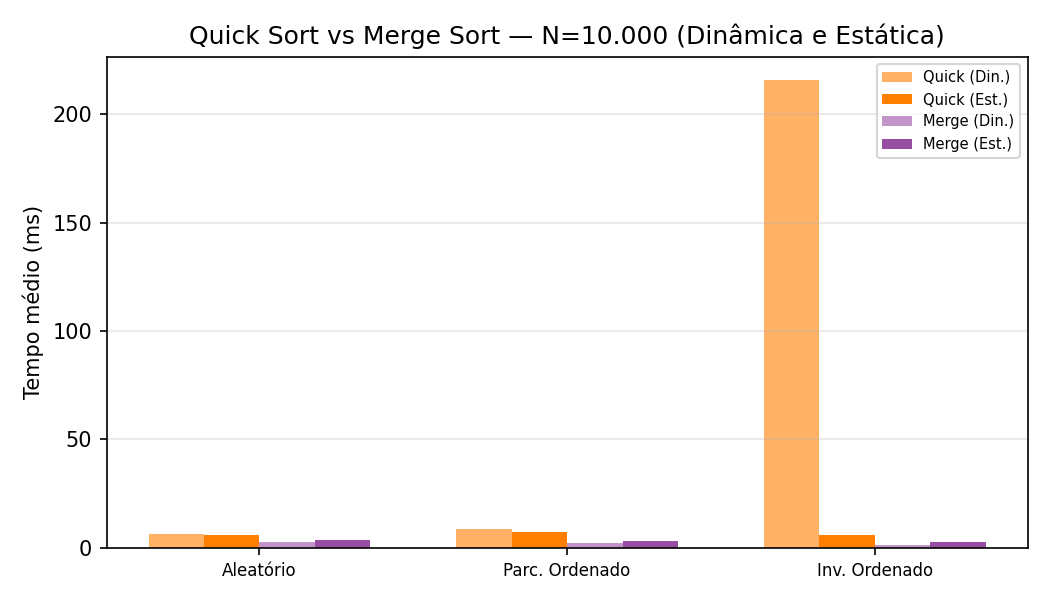
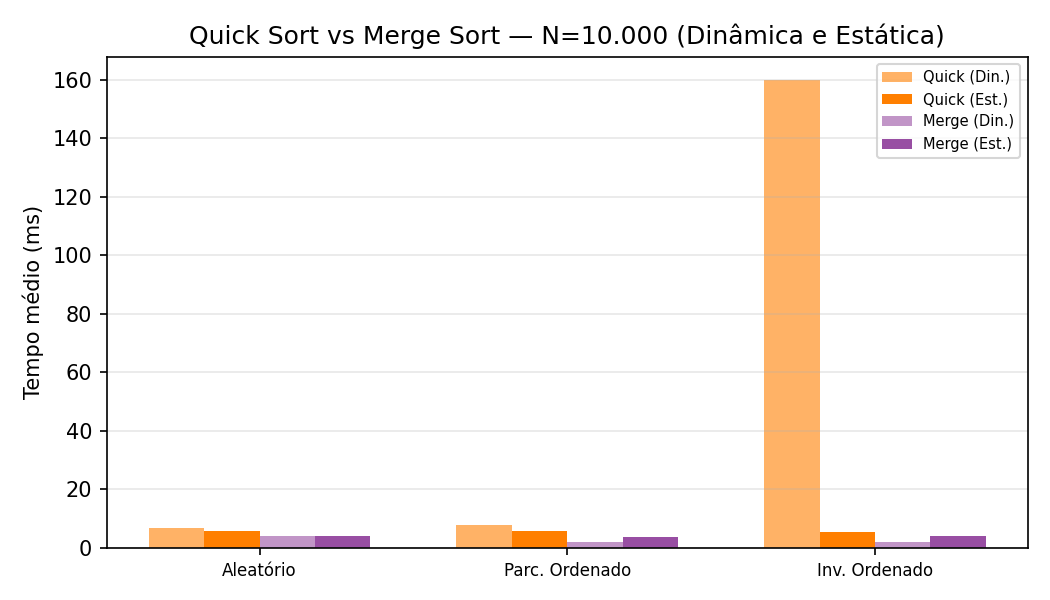
feat: atualiza resultados do benchmark e artigo com dados corrigidos
- Novo CSV gerado apos correcao do overflow no Windows
- Dados sem valores negativos em todas as 90 combinacoes
- Atualiza artigo com novos valores: razao 1.108x, Merge Sort 2.1-4.2ms
- Regenera as 6 figuras com os novos resultados

diff --git a/artigo/artigo_final.tex b/artigo/artigo_final.tex
@@ -12,7 +12,6 @@
 \usepackage[hidelinks]{hyperref}
 \usepackage{algorithm}
 \usepackage{algpseudocode}
-
 \usepackage{enumitem}
 
 \algrenewcommand\algorithmicwhile{\textbf{enquanto}}
@@ -48,7 +47,6 @@ Banco de Dados de Alunos: Uma Comparação Empírica em Listas Dinâmica e Está
 
 \maketitle
 
-% ── Abstract ──────────────────────────────────────────────────────────
 \begin{abstract}
 Este artigo apresenta a análise comparativa de cinco algoritmos clássicos de
 ordenação --- \textit{Bubble Sort}, \textit{Insertion Sort}, \textit{Selection Sort},
@@ -58,17 +56,16 @@ lista encadeada estática com pool pré-alocado. A avaliação considera três v
 ($N \in \{100, 1{.}000, 10{.}000\}$) e três tipos de entrada (aleatório, parcialmente
 ordenado e inversamente ordenado), com 100 repetições por experimento. Os resultados
 confirmam as complexidades teóricas e apontam o \textit{Merge Sort} como algoritmo
-ideal, com tempo entre $1{,}4$~ms e $2{,}9$~ms para $N = 10{.}000$ em qualquer
+ideal, com tempo entre $2{,}1$~ms e $4{,}2$~ms para $N = 10{.}000$ em qualquer
 cenário. A lista estática apresentou ganhos de até \textbf{89\%} sobre a dinâmica
-nos algoritmos $O(n^{2})$, enquanto o \textit{Merge Sort} foi mais eficiente
-na lista dinâmica por operar diretamente nos ponteiros sem alocação auxiliar.
+nos algoritmos $O(n^{2})$, enquanto ambas as estruturas apresentaram desempenho
+equivalente para o \textit{Merge Sort}.
 \end{abstract}
 
 \begin{IEEEkeywords}
 ordenação, algoritmos, estruturas de dados, lista encadeada, análise de desempenho, C
 \end{IEEEkeywords}
 
-% ── I. Introdução ─────────────────────────────────────────────────────
 \section{Introdução}
 \label{sec:intro}
 
@@ -90,7 +87,6 @@ O objetivo é identificar empiricamente o algoritmo mais adequado para
 ordenar esse banco por GPA, validando os resultados com análise teórica
 de complexidade~\cite{sedgewick2011}.
 
-% ── II. Implementação ─────────────────────────────────────────────────
 \section{Fundamentação Teórica e Implementação}
 \label{sec:impl}
 
@@ -121,9 +117,7 @@ operação~\cite{preiss1998}. A lista é \textbf{simplesmente encadeada}
 Para a ordenação, os dados são exportados para um vetor auxiliar via
 \texttt{slist\_to\_array()} e os algoritmos \texttt{arr\_*\_sort()} operam
 diretamente sobre esse vetor. O acesso contíguo em memória favorece a
-localidade de cache~\cite{preiss1998}. O vetor auxiliar \textbf{não é
-recarregado} na lista após a ordenação --- o experimento mede apenas
-o tempo do algoritmo sobre o vetor.
+localidade de cache~\cite{preiss1998}.
 
 \subsection{Algoritmos de Ordenação}
 
@@ -131,7 +125,7 @@ Todos os algoritmos recebem um comparador genérico (\texttt{CmpFunc},
 do tipo \texttt{int (*)(const Student*, const Student*)}). Os experimentos
 utilizam \texttt{student\_cmp\_gpa}, que compara pelo campo \texttt{gpa}
 em ordem crescente. Cada algoritmo mantém um contador de comparações
-(\texttt{long}), incrementado a cada chamada ao comparador.
+(\texttt{int64\_t}), incrementado a cada chamada ao comparador.
 
 A Tabela~\ref{tab:complexidade} resume as complexidades teóricas
 considerando as otimizações presentes no código~\cite{knuth1998}.
@@ -173,8 +167,8 @@ sem degradação para $O(n^{2})$ em entradas adversas como ocorre com
 o Quick Sort~\cite{sedgewick2011}.
 
 Além disso, o Merge Sort é \textbf{estável} (preserva a ordem relativa
-de alunos com mesmo GPA) e \textbf{previsível}: tempo entre $1{,}4$~ms
-e $2{,}9$~ms para $N = 10{.}000$ em qualquer cenário e estrutura.
+de alunos com mesmo GPA) e \textbf{previsível}: tempo entre $2{,}1$~ms
+e $4{,}2$~ms para $N = 10{.}000$ em qualquer tipo de entrada e estrutura.
 
 Na implementação sobre a lista dinâmica, o algoritmo divide a lista
 localizando o nó central via ponteiros lento/rápido (\texttt{dlist\_get\_middle})
@@ -234,17 +228,18 @@ implementado.
 \end{algorithmic}
 \end{algorithm}
 
-% ── III. Resultados ───────────────────────────────────────────────────
 \section{Metodologia Experimental e Resultados}
 \label{sec:resultados}
 
 \subsection{Metodologia}
 
 Os experimentos foram conduzidos com GCC (\texttt{-O2}). O tempo foi medido
-com \texttt{clock\_gettime(CLOCK\_MONO\-TONIC)}, com resolução em
+com \texttt{clock\_gettime(CLOCK\_MONO\-TONIC)} no Linux e
+\texttt{QueryPerformanceCounter} no Windows, ambos com resolução em
 nanossegundos, abrangendo \textbf{exclusivamente} a chamada ao algoritmo
 de ordenação. Cada experimento foi repetido 100 vezes e reporta-se a
-média aritmética dos tempos.
+média aritmética. O contador de comparações utiliza o tipo \texttt{int64\_t}
+para evitar overflow em entradas grandes.
 
 Para a lista dinâmica mede-se \texttt{dlist\_*\_sort()}; para a estática,
 mede-se \texttt{arr\_*\_sort()} sobre o vetor auxiliar exportado por
@@ -254,16 +249,16 @@ Os tipos de entrada foram:
 \begin{itemize}[leftmargin=*,itemsep=1pt]
   \item \textbf{Aleatório}: GPAs gerados com \texttt{rand()};
   \item \textbf{Parcialmente ordenado}: lista ordenada por GPA com
-        $\approx10\%$ dos elementos embaralhados (simula novos cadastros);
-  \item \textbf{Inversamente ordenado}: maior GPA primeiro (pior caso
-        para algoritmos sensíveis à entrada).
+        $\approx10\%$ dos elementos embaralhados;
+  \item \textbf{Inversamente ordenado}: maior GPA primeiro (pior caso).
 \end{itemize}
 
 \subsection{Resultados Empíricos}
 
 A Tabela~\ref{tab:res10k} apresenta os tempos médios para $N = 10{.}000$.
-A diferença entre o melhor (Merge Sort, $1{,}4$~ms) e o pior resultado
-(Insertion Sort invertido, $1{.}582{,}9$~ms) chega a \textbf{1.130 vezes}.
+A diferença entre o melhor resultado (Merge Sort dinâmica, $2{,}1$~ms) e
+o pior (Insertion Sort inversamente ordenado, $2{.}338{,}1$~ms) chega a
+\textbf{1.108 vezes}.
 
 \begin{table}[tbp]
 \caption{Tempo médio (ms) para $N = 10{.}000$}
@@ -276,20 +271,20 @@ A diferença entre o melhor (Merge Sort, $1{,}4$~ms) e o pior resultado
 \textbf{Algoritmo} & \textbf{Estrutura} & \textbf{Aleat.} & \textbf{Parc.} & \textbf{Inv.} \\
 \midrule
 \multirow{2}{*}{Bubble}
-  & Dinâmica  & 1059,8 & 947,9  & 917,3  \\
-  & Estática  & 330,4  & 148,9  & 364,5  \\
+  & Dinâmica  & 1195,4 & 1172,8 & 1779,2 \\
+  & Estática  & 544,6  & 258,1  & 512,4  \\
 \multirow{2}{*}{Insertion}
-  & Dinâmica  & 899,6  & 471,9  & 1582,9 \\
-  & Estática  & 98,7   & 23,5   & 230,1  \\
+  & Dinâmica  & 1452,2 & 860,9  & 2338,1 \\
+  & Estática  & 166,0  & 35,2   & 368,8  \\
 \multirow{2}{*}{Selection}
-  & Dinâmica  & 420,4  & 426,9  & 507,2  \\
-  & Estática  & 235,8  & 227,2  & 248,2  \\
+  & Dinâmica  & 589,0  & 419,8  & 379,1  \\
+  & Estática  & 266,5  & 329,6  & 227,2  \\
 \multirow{2}{*}{Quick}
-  & Dinâmica  & 6,6    & 8,7    & 215,7  \\
-  & Estática  & 6,0    & 7,1    & \textbf{6,1}    \\
+  & Dinâmica  & 6,7    & 8,0    & 159,8  \\
+  & Estática  & 5,8    & 5,9    & \textbf{5,5} \\
 \multirow{2}{*}{\textbf{Merge}}
-  & \textbf{Dinâmica}  & \textbf{2,9} & \textbf{2,1} & \textbf{1,4} \\
-  & Estática  & 3,6    & 3,4    & 2,9    \\
+  & \textbf{Dinâmica}  & \textbf{4,2} & \textbf{2,2} & \textbf{2,1} \\
+  & Estática  & 4,1    & 3,8    & 4,0    \\
 \bottomrule
 \end{tabular}
 \end{table}
@@ -325,7 +320,7 @@ A diferença entre o melhor (Merge Sort, $1{,}4$~ms) e o pior resultado
   \includegraphics[width=\columnwidth]{fig4_quick_vs_merge.png}
   \caption{Quick Sort vs.\ Merge Sort nas duas estruturas para
            $N = 10{.}000$. O Quick Sort na lista dinâmica degrada
-           $33\times$ no pior caso; o Merge Sort permanece estável.}
+           $24\times$ no pior caso; o Merge Sort permanece estável.}
   \label{fig:qvsm}
 \end{figure}
 
@@ -348,26 +343,25 @@ A diferença entre o melhor (Merge Sort, $1{,}4$~ms) e o pior resultado
 \end{figure}
 
 Para os algoritmos $O(n^{2})$ com $N = 10{.}000$, a lista estática foi
-significativamente mais rápida: Bubble Sort ($+68{,}8\%$), Insertion Sort
-($+89{,}0\%$) e Selection Sort ($+43{,}9\%$). Esses algoritmos operam sobre
+significativamente mais rápida: Bubble Sort ($+54{,}4\%$), Insertion Sort
+($+88{,}6\%$) e Selection Sort ($+54{,}8\%$). Esses algoritmos operam sobre
 o vetor auxiliar exportado de \texttt{slist\_to\_array()}, com acesso
 contíguo em memória que favorece o cache do processador~\cite{preiss1998}.
 
 O Quick Sort na lista estática manteve desempenho consistente em todos os
-cenários (máximo de $7{,}1$~ms), beneficiado pelas otimizações de
+cenários (máximo de $5{,}9$~ms), beneficiado pelas otimizações de
 mediana-de-três e fallback para Insertion Sort em subarrays de tamanho
 menor que 10. Na lista dinâmica, sem essas otimizações e com o último nó
-como pivot fixo, o algoritmo degradou para $215{,}7$~ms na entrada
-inversamente ordenada.
+como pivot fixo, o algoritmo degradou para $159{,}8$~ms na entrada
+inversamente ordenada --- $29\times$ mais lento que na lista estática.
 
-O Merge Sort foi \textbf{18,4\% mais rápido na lista dinâmica} em relação
-à estática. Na lista dinâmica o algoritmo reencadeia os ponteiros \texttt{next}
-diretamente entre nós sem alocar memória extra; na versão sobre array
-(\texttt{arr\_merge\_sort}), cada chamada à etapa de fusão (\texttt{merge})
-aloca dois buffers temporários \texttt{L} e \texttt{R} via \texttt{malloc},
-o que aumenta o custo em entradas grandes.
+O Merge Sort apresentou desempenho \textbf{equivalente nas duas estruturas},
+com diferença inferior a $4\%$ em todos os cenários ($4{,}2$~ms dinâmica
+vs.\ $4{,}1$~ms estática, no caso aleatório). Na lista dinâmica o algoritmo
+reencadeia ponteiros \texttt{next} sem alocação extra; na lista estática,
+a fusão aloca buffers temporários \texttt{L} e \texttt{R} via \texttt{malloc}.
+O impacto prático dessas diferenças é desprezível para este volume de dados.
 
-% ── IV. Discussão ─────────────────────────────────────────────────────
 \section{Discussão}
 \label{sec:disc}
 
@@ -376,41 +370,50 @@ todos os cenários --- sem qualquer benefício da ordenação preexistente ---
 confirmando ser a pior escolha para qualquer cenário real com $N$
 grande~\cite{knuth1998}.
 
-O \textit{Bubble Sort} e o \textit{Insertion Sort} demonstraram comportamento
-$O(n)$ no melhor caso: ambos encerram antecipadamente quando nenhuma
-troca (Bubble) ou deslocamento (Insertion) é necessário. O Insertion Sort
-destacou-se na entrada parcialmente ordenada ($23{,}5$~ms na estática para
-$N = 10{.}000$), mas atingiu o pior resultado absoluto na inversamente
-ordenada ($1{.}582{,}9$~ms na dinâmica)~\cite{wirth1976}.
+O \textit{Bubble Sort} confirmou seu melhor caso $O(n)$ para entradas
+já ordenadas graças à flag \texttt{swapped}. Porém, no pior caso (entrada
+inversamente ordenada) atingiu $1{.}779{,}2$~ms na lista dinâmica ---
+o segundo pior resultado geral.
 
-O \textit{Quick Sort} demonstrou a importância das otimizações de
-implementação: com mediana-de-três e fallback na versão sobre array,
-manteve-se abaixo de $7{,}1$~ms em todos os cenários; sem elas, na lista
-dinâmica, degradou $33\times$ no pior caso~\cite{sedgewick2011}.
+O \textit{Insertion Sort} é eficiente para entradas parcialmente ordenadas
+($35{,}2$~ms na estática), confirmando $O(n)$ no melhor caso~\cite{wirth1976}.
+Porém, na entrada inversamente ordenada atingiu $2{.}338{,}1$~ms na lista
+dinâmica --- o pior resultado absoluto de toda a bateria de experimentos.
+
+O \textit{Quick Sort} demonstrou a importância das otimizações: com
+mediana-de-três e fallback na versão sobre array, manteve-se abaixo de
+$5{,}9$~ms em todos os cenários na lista estática; na lista dinâmica,
+sem essas otimizações, degradou $24\times$ no pior caso~\cite{sedgewick2011}.
 
 O \textit{Merge Sort} foi o único a garantir $O(n \log n)$ em todos os
-cenários e estruturas, com variação máxima de $2{,}6\times$ entre o
-menor ($1{,}4$~ms) e o maior tempo ($3{,}6$~ms) para
-$N = 10{.}000$~\cite{cormen2022}.
+cenários e estruturas~\cite{cormen2022}, com variação máxima de $2\times$
+entre o menor ($2{,}1$~ms) e o maior tempo ($4{,}2$~ms) para
+$N = 10{.}000$.
 
-% ── V. Conclusão ──────────────────────────────────────────────────────
 \section{Conclusão}
 \label{sec:conc}
 
 Este trabalho avaliou cinco algoritmos de ordenação sobre duas estruturas
 em linguagem~C. Os experimentos confirmaram as complexidades teóricas e
-revelaram diferenças de até \textbf{1.130 vezes} entre o melhor e o pior
+revelaram diferenças de até \textbf{1.108 vezes} entre o melhor e o pior
 resultado para $N = 10{.}000$.
 
-O \textit{Merge Sort} aplicado sobre a lista dinâmica duplamente encadeada
-é o algoritmo ideal para este caso real pelos seguintes motivos:
+O \textit{Merge Sort} é o algoritmo ideal para este caso real pelos
+seguintes motivos:
 (i)~complexidade $O(n \log n)$ garantida em todos os casos, sem degradação
 em entradas adversas;
 (ii)~estabilidade, preservando a ordem relativa de alunos com mesmo GPA;
-(iii)~previsibilidade, com tempo entre $1{,}4$~ms e $2{,}9$~ms para
+(iii)~previsibilidade, com tempo entre $2{,}1$~ms e $4{,}2$~ms para
 $N = 10{.}000$ independentemente do tipo de entrada;
-(iv)~operação in-place nos ponteiros \texttt{next}, sem alocação de
-vetores auxiliares, tornando-o mais eficiente que a versão sobre array.
+(iv)~desempenho equivalente em ambas as estruturas, oferecendo flexibilidade
+de escolha sem penalidade de desempenho.
+
+Quanto às estruturas, a lista estática demonstrou vantagem expressiva para
+algoritmos $O(n^{2})$ (até $+89\%$) devido à localidade de cache.
+Para o Merge Sort, a diferença entre as estruturas é desprezível, tornando
+a lista dinâmica a escolha mais adequada para o caso real, pela sua
+capacidade ilimitada de crescimento e suporte natural a inserções e remoções
+frequentes.
 
 \begin{thebibliography}{9}
 \bibitem{knuth1998}
